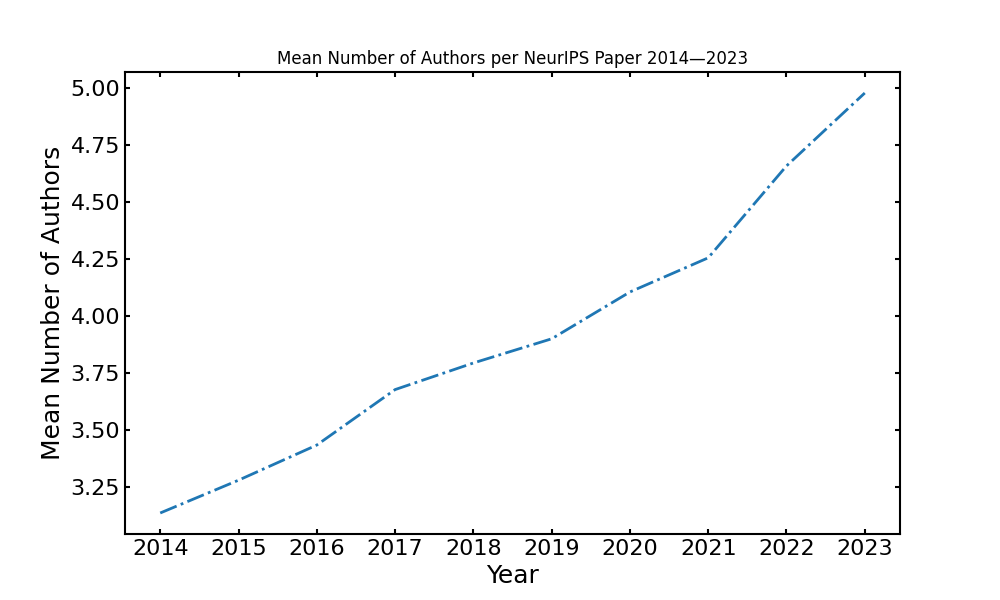
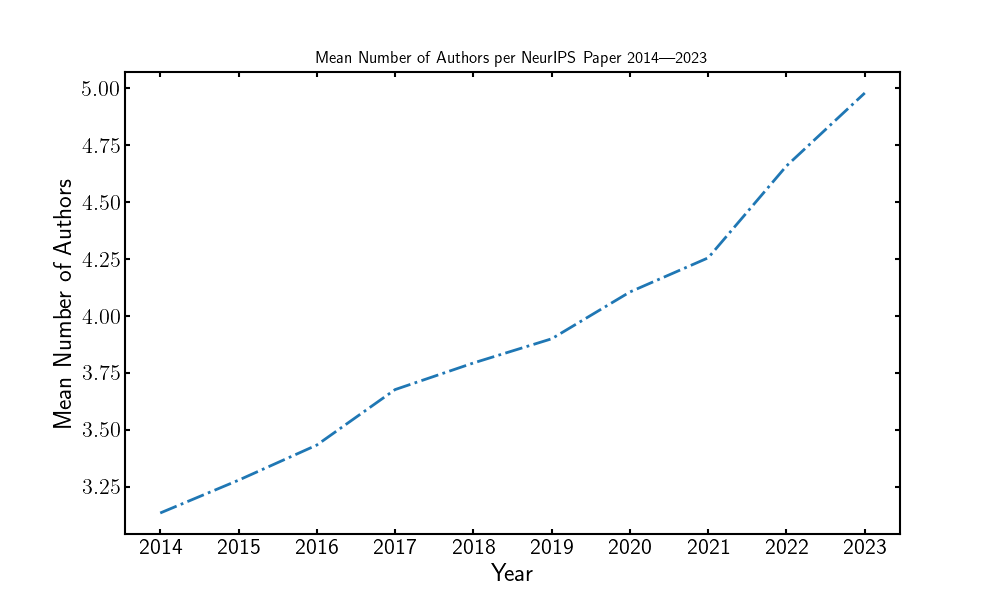
prettier plotting

diff --git a/generate_figures.py b/generate_figures.py
@@ -1,0 +1,176 @@
+import json
+import numpy as np
+from collections import Counter
+import matplotlib
+import matplotlib.pyplot as plt
+
+matplotlib.rc_file('matplotlibrc')
+plt.rcParams['text.usetex'] = True
+
+from wordcloud import WordCloud
+
+with open("data/neurips2022data.json", "r") as f:
+    neurips_2022_data = json.load(f)
+
+with open("data/neurips2023data.json", "r") as f:
+    neurips_2023_data = json.load(f)
+
+with open("data/stopwords.txt", "r") as f:
+    stopwords = f.read().split("\n")
+
+titles_2022 = [d.lower() for d in neurips_2022_data.keys()]
+titles_2023 = [d.lower() for d in neurips_2023_data.keys()]
+
+def generate_wordcloud(titles, stopwords, filename):
+    title_text = ' '.join(titles)
+    title_text = ' '.join([word for word in title_text.split() if word not in stopwords])
+
+    wordcloud = WordCloud(
+        max_font_size=100, 
+        min_font_size = 10, 
+        max_words=100, 
+        background_color="white", 
+        width = 533*2, 
+        height = 253*2, 
+        mode="RGBA"
+        ).generate(title_text)
+    wordcloud.to_file(filename)
+
+for year, titles in zip(["2022", "2023"], [titles_2022, titles_2023]):
+    generate_wordcloud(titles, stopwords, f"images/wordcloud_{year}.png");
+
+
+keys = list(neurips_2023_data.keys())
+
+abstracts = [neurips_2023_data[key]["abstract"] for key in keys]
+abstracts = [abstract.lower() for abstract in abstracts if abstract!=""]
+abstract_lengths = [len(abstract.split()) for abstract in abstracts]
+
+plt.figure(figsize=(10, 6))
+plt.hist(abstract_lengths, bins=100, density=True);
+plt.xlabel("Abstract Length (words)");
+plt.ylabel("Density");
+plt.title("Abstract Lengths for NeurIPS 2023 Papers");
+plt.savefig("images/abstract_histogram_2023.png");
+plt.cla()
+plt.close()
+
+num_authors_2022 = [
+    len(v) for v in neurips_2022_data.values()
+]
+
+num_authors_2023 = [
+    len(neurips_2023_data[k]['authors']) for k in keys
+]
+
+
+
+author_counts_2022 = Counter(num_authors_2022)
+author_counts_2023 = Counter(num_authors_2023)
+
+all_keys = sorted(set(author_counts_2022.keys()).union(set(author_counts_2023.keys())))
+values_2022 = [author_counts_2022.get(k, 0) for k in all_keys]
+values_2023 = [author_counts_2023.get(k, 0) for k in all_keys]
+
+# Set up the bar width and positions
+bar_width = 0.35
+r1 = range(len(all_keys))
+r2 = [x + bar_width for x in r1]
+
+# Create bar chart
+plt.figure(figsize=(15, 6))
+plt.bar(r1, values_2022, color='blue', width=bar_width, edgecolor='grey', label='2022')
+plt.bar(r2, values_2023, color='red', width=bar_width, edgecolor='grey', label='2023')
+# Add labels and title
+plt.xlabel('Number of Authors')
+plt.ylabel('Number of Papers')
+plt.title('Comparison of Number of Authors per Paper for 2022 vs 2023')
+plt.xticks([r + bar_width / 2 for r in r1], all_keys);
+# Add a legend
+plt.legend();
+plt.savefig("images/num_authors_2022_2023.png")
+plt.cla()
+plt.close()
+
+
+
+
+title_lengths_2022 = [len(title.split()) for title in titles_2022]
+title_lengths2023 = [len(neurips_2023_data[key]["title"].split()) for key in keys]
+
+plt.figure(figsize=(10, 6))
+plt.hist(title_lengths_2022, bins=100, density=True, label="2022");
+plt.hist(title_lengths2023, bins=100, density=True, label="2023");
+plt.xlabel("Title Length (words)");
+plt.ylabel("Density");
+plt.legend();
+plt.savefig("images/title_length_histogram_2022_2023.png");
+plt.cla()
+plt.close()
+
+historical_data = {}
+
+for year in range(2014, 2023):
+    syear = str(int(year))
+    with open(f"data/neurips{syear}data.json", "r") as f:
+        historical_data[syear] = json.load(f)
+
+historical_data["2023"] = {
+    val["title"]: val["authors"]
+    for val in neurips_2023_data.values()
+}
+
+syears = [str(int(year)) for year in range(2014, 2024)]
+
+title_lengths_by_year = {
+    syear: [len(title.split()) for title in historical_data[syear].keys()]
+    for syear in syears
+}
+
+mean_title_length_by_year = {
+    syear: np.mean(title_lengths_by_year[syear])
+    for syear in syears
+}
+
+plt.figure(figsize=(10, 6))
+plt.plot(syears, list(mean_title_length_by_year.values()), "-.")
+plt.xlabel("Year");
+plt.ylabel("Mean Title Length (words)");
+plt.title(f"Mean NeurIPS Paper Title Length {syears[0]}—{syears[-1]}")
+plt.savefig("images/title_length_history_2014_2023.png");
+plt.cla()
+plt.close()
+
+num_authors_by_year = {
+    syear: [len(authors) for authors in historical_data[syear].values()]
+    for syear in syears
+}
+
+mean_num_authors_by_year = {
+    syear: np.mean(num_authors_by_year[syear])
+    for syear in syears
+}
+
+plt.figure(figsize=(10, 6))
+plt.plot(syears, list(mean_num_authors_by_year.values()), "-.")
+plt.xlabel("Year");
+plt.ylabel("Mean Number of Authors");
+plt.title(f"Mean Number of Authors per NeurIPS Paper {syears[0]}—{syears[-1]}")
+plt.savefig("images/num_authors_history_2014_2023.png");
+plt.cla()
+plt.close()
+
+
+num_unique_authors_by_year = {
+    syear: len(set([v for vals in historical_data[syear].values() for v in vals]))
+    for syear in syears
+}
+
+plt.figure(figsize=(10, 6))
+plt.plot(syears, list(num_unique_authors_by_year.values()), "-.")
+plt.xlabel("Year");
+plt.ylabel("Number of Unique Authors");
+plt.title(f"Number of Unique Authors of NeurIPS Papers {syears[0]}—{syears[-1]}")
+plt.savefig("images/unique_authors_history_2014_2023.png");
+plt.cla()
+plt.close()
